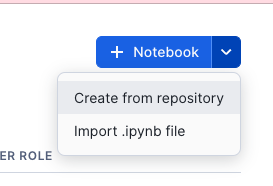
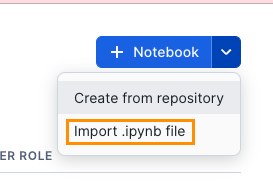
modified to add weather changes

Changed region(s): [[0.2344, 0.6183, 0.7326, 0.7796]]

diff --git a/site/sfguides/src/using_snowflake_cortex_and_streamlit_with_geospatial_data/using_snowflake_cortex_and_streamlit_with_geospatial_data.md b/site/sfguides/src/using_snowflake_cortex_and_streamlit_with_geospatial_data/using_snowflake_cortex_and_streamlit_with_geospatial_data.md
@@ -116,7 +116,7 @@ Press **Get** - Keep the name as it is.
 
 ![alt text](assets/I005.png)
 
-You will only get a sample dataset - you will need to **request** the full Product to complete the full lab.
+You will have access to the dataset for a period of **14 days**
 
 
 ## Create your First map Layer
@@ -1389,25 +1389,37 @@ Duration: 10
 
 Now we will leverage the weather data to understand the weather forecasts for each Event.  This time we will import a notebook which has already been created.
 
-Go to the Home page and select Notebooks
+- Go to the Home page and select Notebooks
 
-Download the following python notebook file
+- Download the following python notebook file
 
 [**weather.ipynb**](https://github.com/Snowflake-Labs/sfguide-using-snowflake-cortex-and-streamlit-with-geospatial-data/blob/main/weather.ipynb)
 
-In the notebbook menu selection, select Import from .ipynb file and choose the downloaded file
+- In the notebbook menu selection, select Import from .ipynb file and choose the downloaded file
 
-![alt text](assets/weather/W001.png)
+    ![alt text](assets/weather/W001.png)
 
 
-Follow the instructions as per the imported notebook.  You will end up with a weather forecast for each of the different events.
 
-![alt text](assets/weather/W002.png)
+- Populate the fields with the following:
+
+![alt text](assets/weather/W003.png)
+
+- Follow the instructions as per the imported notebook.  You will end up with a weather forecast for each of the different events.
+
+    ![alt text](assets/weather/W002.png)
 
 
 ### Streamlit showing weather by Train Station
 
+![alt text](assets/weather/W004.png)
+
 this is an example weather app which shows the weather forecast for each train station
+
+- Copy and paste the code below into a new **streamlit app**
+
+- NOTE: you will need to install the package **pydeck** from the packages menu.
+
 
 ```python
 
@@ -1452,8 +1464,8 @@ trains_latlon = trains_latlon.drop('POSTCODE_SPLIT','POSTCODE_OUTCODE','POSTCODE
 
 # Add hourly and daily weather for each train station
 
-weather_hourly = session.table('POSTCODE_SECTOR_WEATHER_FORECASTS_PRIVATE_BETA.BD1_BETA."advanced_with_solar_hourly_view"')
-weather_daily = session.table('POSTCODE_SECTOR_WEATHER_FORECASTS_PRIVATE_BETA.BD1_BETA."advanced_with_solar_daily_view"')
+weather_hourly = session.table('POSTCODE_SECTOR_WEATHER_FORECASTS__ADVANCED_WITH_SOLAR.PCSECT_FORECAST."advanced_with_solar_hourly_view"')
+weather_daily = session.table('POSTCODE_SECTOR_WEATHER_FORECASTS__ADVANCED_WITH_SOLAR.PCSECT_FORECAST."advanced_with_solar_daily_view"')
 
 weather_hourly_max = weather_hourly.agg(max('"Issued_at"').alias('MAX'))
 weather_hourly = weather_hourly.join(weather_hourly_max,weather_hourly_max['MAX']==weather_hourly['"Issued_at"']).drop('MAX')
@@ -1767,6 +1779,7 @@ if run:
     with col2:
         st.markdown('##### HUMIDITY')
         st.bar_chart(weather_filter_hour,x='HOUR',y=['Relative'])
+
 
 ```
 
